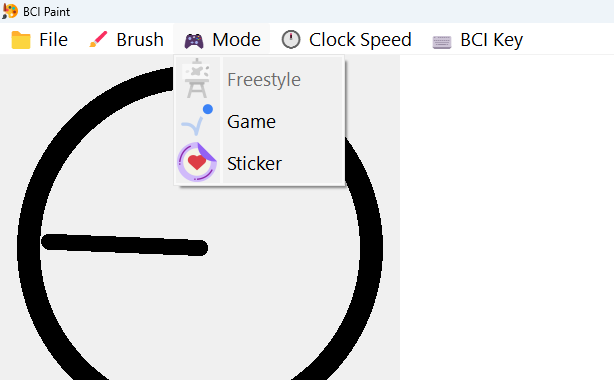
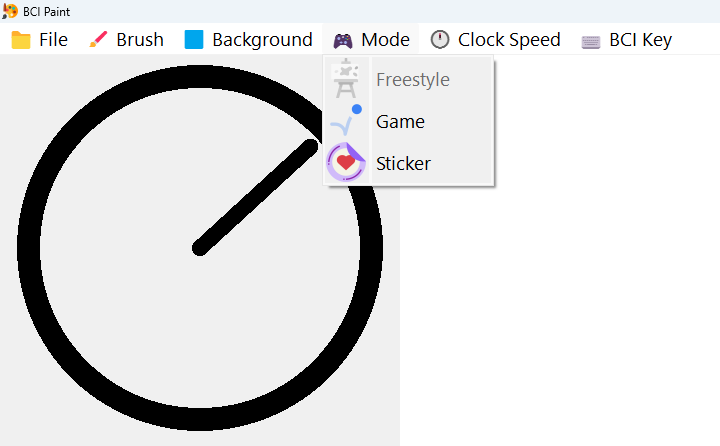
Update README & documentation images

Changed region(s): [[0.0, 0.0, 0.9283, 1.0]]

diff --git a/README.md b/README.md
@@ -8,7 +8,7 @@
 <h3 align="center">BCI Paint</h3>
 
   <p align="center">
-    This is a repo for the BCI enabled painting program.
+    This is a repo for a BCI enabled painting app.
   </p>
 </div>
 
@@ -34,7 +34,7 @@
 </ol>
 
 # About the Project
-This project was developed for the Imagination Centre BCI Program at the Glenrose Rehabilitation Hospital. The purpose of this app is to enable people with severely limited physical mobility access to paint.
+This project was developed for the Imagination Centre BCI Program at the Glenrose Rehabilitation Hospital. The purpose of this app is to enable people with severely limited physical mobility access to paint digitally.
 
 <div align="center">
   <img src="docs/images/painting.png" width="500">
@@ -61,6 +61,13 @@ The Brush menu allows you to adjust the properties of the brush
   * **Brush Style:** style of the paint stroke
   * **Brush speed:** how far the brush moves in one stroke
   * **Line style:** solid or dotted paint stroke
+
+<img src="docs/images/BackgroundMenu.png" width="350">
+
+The Background menu allows you to fill the canvas with the selected color
+  * **White:** white canvas
+  * **Black:** black canvas
+  * **Custom:** opens a color picker which allows you to choose any color
 
 <img src="docs/images/ModeMenu.png" width="350">
 
